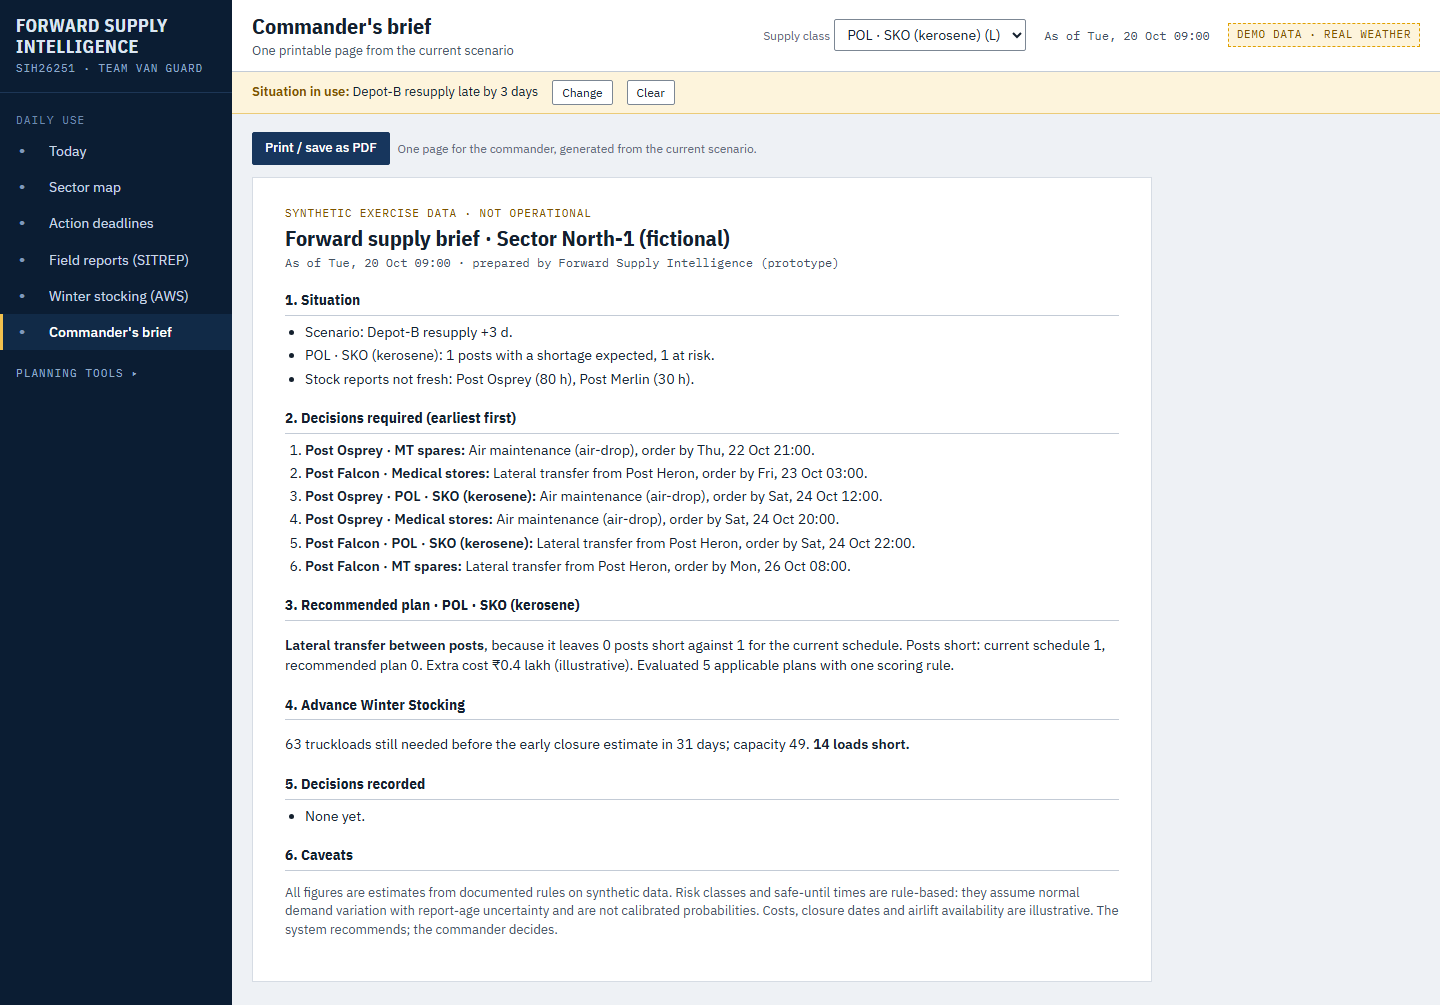
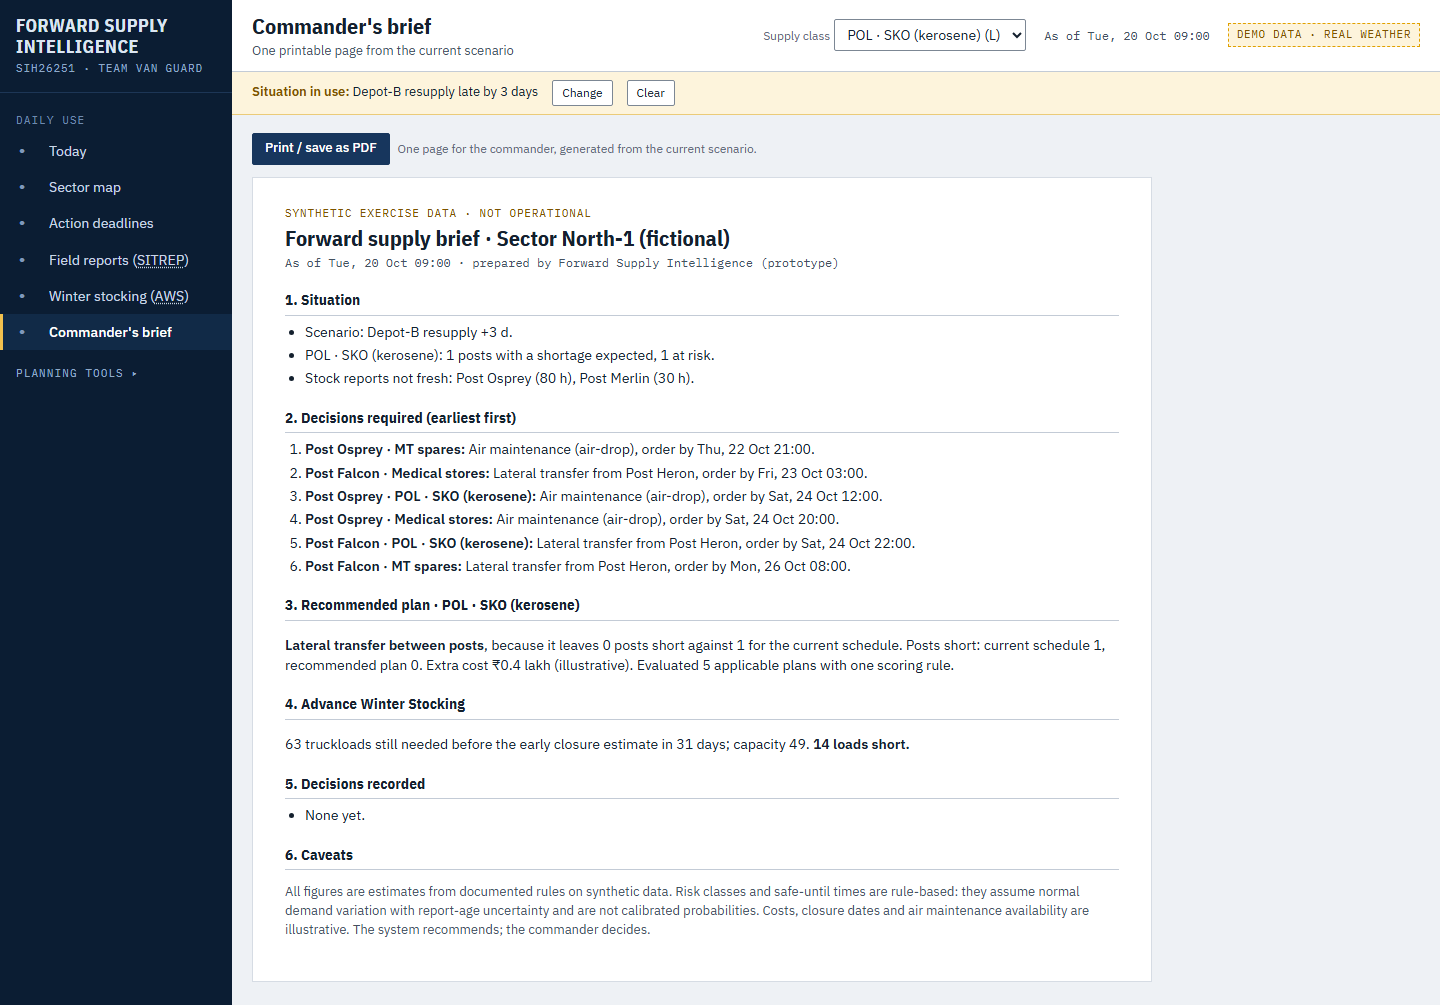
Mark DESIGN.md items done; day-number key on planning tools; retake screenshots
- DESIGN.md: CHANGE markers become DONE; tag and inline-style notes updated
- Planning tools say once what d6 / day N means (A2.12)
- Deadline timeline's first and last day labels stay inside the SVG
- README design-system notes; 11 screenshots retaken at 1440 px

diff --git a/web/js/views-sim.js b/web/js/views-sim.js
@@ -73,7 +73,7 @@
         <div class="callout row ${{ red: 'critical', amber: 'warning', green: 'healthy' }[cD]}">${sevTag(cD, lD)}<p><b>Estimated impact:</b> ${remD < 0 ? `${n.name} would run out of ${it.name.toLowerCase()} on ${ui.when(tD)}, ${fmt(A - tD, 1)} d before the delivery on ${ui.when(A)}. The gap is ${fmt(shortU)} ${it.unit}; covering it by air maintenance costs about <b>₹${fmt(cost, 1)} lakh</b> at ₹${CONFIG.airRate}/kg ${ui.srcTag('ILLUSTRATIVE')}.` : mD < 2 ? `No stock-out expected, but the margin shrinks from ${fmt(mN, 1)} d to ${fmt(mD, 1)} d.` : `Delay absorbed: stock lasts ${fmt(mD, 1)} d beyond delivery.`}</p></div>
         ${n.type === 'depot' ? '<p class="note">For a depot, a shortage here means dispatches fall behind. The Knock-on effects page shows which posts are hit.</p>' : ''}
         <div class="chart-wrap mt10"><svg class="fluid" id="wChart" viewBox="0 0 640 230" role="img" aria-label="Projected stock"></svg><div class="tip" id="wTip"></div></div>
-        <div class="legend"><span><i style="border-color:var(--navy-500)"></i>Normal</span><span><i style="border-color:var(--dis);border-top-style:dashed"></i>Disrupted</span><span><i class="box tint-critical"></i>shortage window</span><span>▼ delivery</span></div>`;
+        <div class="legend"><span><i style="border-color:var(--navy-500)"></i>Normal</span><span><i style="border-color:var(--dis);border-top-style:dashed"></i>Disrupted</span><span><i class="box tint-critical"></i>shortage window</span><span>▼ delivery</span><span>d2 = 2 days from now</span></div>`;
       chart({ s, c, c2, L, A, q: v2.q, F: 1 - st2.short / 100, tD, unit: it.unit });
     }
     function chart(o) {
@@ -109,7 +109,7 @@
         <div class="field"><label for="rS">Shortage in incoming delivery</label><div class="row"><input type="range" id="rS" data-fmt="plain" min="0" max="80" step="10" value="${st.short}"><output class="val">${st.short}%</output></div></div>
         <div><button type="button" class="btn" id="rReset">Reset disruption</button></div></div></div>
       <div class="grid m2">
-        <div class="panel"><div class="ph"><h2>Supply network</h2><span class="hint">Arrows = supply direction · dotted = lateral transfer allowed</span></div>
+        <div class="panel"><div class="ph"><h2>Supply network</h2><span class="hint">Arrows = supply direction · dotted = lateral transfer allowed · d6 = day 6 from now</span></div>
           <svg class="net" id="net" viewBox="0 0 900 470" role="img" aria-label="Supply network"></svg>
           <div class="legend" style="padding:8px 14px 10px">${badge('green')} no effect / buffer holds ${badge('amber')} delayed or thin ${badge('red')} shortage expected</div></div>
         <div class="panel"><div class="ph"><h2>Impact chain</h2></div><div class="pb">
@@ -196,7 +196,7 @@
           <div class="field"><label for="sP">Decision priority</label><select id="sP"><option value="balanced">Balanced (risk 60 · time 25 · cost 15)</option><option value="risk">Minimise shortage (80 · 15 · 5)</option><option value="cost">Minimise cost (40 · 20 · 40)</option></select></div>
           <div class="btn-row"><button type="button" class="btn primary" id="sSave">Save run to history</button><button type="button" class="btn" id="sReset">Reset scenario</button></div>
         </div></div>
-        <div class="panel"><div class="ph"><h2>Recommendation · ${it.name}</h2>${ui.srcTag('ESTIMATE')} ${ui.srcTag('ILLUSTRATIVE')}</div><div class="pb">
+        <div class="panel"><div class="ph"><h2>Recommendation · ${it.name}</h2><span class="hint">day N = days from now</span>${ui.srcTag('ESTIMATE')} ${ui.srcTag('ILLUSTRATIVE')}</div><div class="pb">
           <div class="reco"><h3>Recommended · best of ${ev.ranked.length} applicable plans · commander decides</h3><div class="big">${esc(best.name)}</div>
             <ul><li><b>Why:</b> ${esc(ev.reason)}.</li><li><b>Posts still short:</b> ${esc(shortTxt(best.m))}.</li>${best.key !== 'A' ? `<li><b>Cost:</b> ₹${fmt(best.m.cost, 1)} lakh extra (illustrative).</li>` : ''}${best.notes.length ? `<li><b>Note:</b> ${esc(best.notes.join('; '))}.</li>` : ''}</ul>
             ${FSI.whyPlanBox(st, ev)}</div>

diff --git a/web/index.html b/web/index.html
@@ -7,7 +7,7 @@
 <meta name="description" content="Decision-support prototype for forward logistics: act-by deadlines, disruption simulation and plan comparison. Synthetic data.">
 <link rel="preconnect" href="https://fonts.googleapis.com">
 <link href="https://fonts.googleapis.com/css2?family=IBM+Plex+Mono:wght@400;500;600&family=IBM+Plex+Sans+Condensed:wght@500;600;700&family=IBM+Plex+Sans:wght@400;500;600&display=swap" rel="stylesheet">
-<link rel="stylesheet" href="css/app.css?v=13">
+<link rel="stylesheet" href="css/app.css?v=15">
 </head>
 <body>
 <div class="shell">
@@ -45,17 +45,17 @@
     <div id="live" class="sr-only" role="status" aria-live="polite"></div>
   </div>
 </div>
-<script src="js/data.js?v=13"></script>
-<script src="js/weather-data.js?v=13"></script>
-<script src="js/weather.js?v=13"></script>
-<script src="js/engine.js?v=13"></script>
-<script src="js/ui.js?v=13"></script>
-<script src="js/explain.js?v=13"></script>
-<script src="js/views.js?v=13"></script>
-<script src="js/views-sim.js?v=13"></script>
-<script src="js/views-weather.js?v=13"></script>
-<script src="js/map.js?v=13"></script>
-<script src="js/today.js?v=13"></script>
-<script src="js/app.js?v=13"></script>
+<script src="js/data.js?v=15"></script>
+<script src="js/weather-data.js?v=15"></script>
+<script src="js/weather.js?v=15"></script>
+<script src="js/engine.js?v=15"></script>
+<script src="js/ui.js?v=15"></script>
+<script src="js/explain.js?v=15"></script>
+<script src="js/views.js?v=15"></script>
+<script src="js/views-sim.js?v=15"></script>
+<script src="js/views-weather.js?v=15"></script>
+<script src="js/map.js?v=15"></script>
+<script src="js/today.js?v=15"></script>
+<script src="js/app.js?v=15"></script>
 </body>
 </html>

diff --git a/web/js/views.js b/web/js/views.js
@@ -67,7 +67,7 @@
     s('rect', { x: x0, y: 30, width: x1 - x0, height: 14, fill: ui.tok('--navy-50'), stroke: ui.tok('--line') });
     for (let d = 0; d <= H; d++) {
       s('line', { x1: X(d), x2: X(d), y1: 44, y2: d % 7 === 0 ? 52 : 48, stroke: ui.tok('--chart-axis') });
-      if (d % 2 === 0) s('text', { x: X(d), y: 64, 'text-anchor': 'middle', 'font-size': 10, 'font-family': 'IBM Plex Mono', fill: ui.tok('--muted') }).textContent = d === 0 ? 'now' : ui.dayDate(d).toLocaleDateString('en-IN', { weekday: 'short', day: '2-digit' });
+      if (d % 2 === 0) s('text', { x: X(d), y: 64, 'text-anchor': d === 0 ? 'start' : d === H ? 'end' : 'middle', 'font-size': 10, 'font-family': 'IBM Plex Mono', fill: ui.tok('--muted') }).textContent = d === 0 ? 'now' : ui.dayDate(d).toLocaleDateString('en-IN', { weekday: 'short', day: '2-digit' });
     }
     // stock bar: green until safe stock-out, red after
     if (r.Yc > 0) s('rect', { x: x0, y: 30, width: X(r.Yc) - x0, height: 14, fill: ui.tok('--timeline-safe') });

diff --git a/DESIGN.md b/DESIGN.md
@@ -1,6 +1,6 @@
 # Forward Supply Intelligence — Design System
 
-Status: **specification v1 (20 Oct 2026)**. It documents the visual system already in `web/css/app.css` and the view code, and sets rules for future changes. Items marked **CHANGE** are proposals that have **not been implemented yet**.
+Status: **specification v1 (20 Oct 2026)**. It documents the visual system already in `web/css/app.css` and the view code, and sets rules for future changes. Items marked **DONE** were proposals in v1 and have been implemented (20 Oct 2026). Appendix A is the audit as it was found before those changes.
 
 Scope: the static web app in `web/` (vanilla JS, one stylesheet, no build step, no `package.json`). Tokens live as CSS custom properties in `web/css/app.css`. There is no second styling system, and none should be added.
 
@@ -50,7 +50,7 @@ Scope: the static web app in `web/` (vanilla JS, one stylesheet, no build step, 
 | `--navy-50` | `#F2F6FB` | recommendation panel tint |
 | `--ink` | `#14202E` | primary text (16.5:1 on white) |
 | `--ink-2` | `#44515F` | secondary text (8.1:1 on white) |
-| `--muted` | `#6B7887` | metadata, axis labels (**CHANGE**, see 2.3) |
+| `--muted` | `#5C6878` | metadata, axis labels (**DONE**, see 2.3; was `#6B7887`) |
 | `--line` | `#D6DCE4` | dividers inside panels |
 | `--line-2` | `#C3CBD6` | panel/table header rules |
 | `--bg` | `#EEF1F5` | workspace background |
@@ -59,7 +59,7 @@ Scope: the static web app in `web/` (vanilla JS, one stylesheet, no build step, 
 
 ### 2.2 Semantic tokens
 
-The semantic names below are the ones components should use. **CHANGE:** today components reference base names directly; add these aliases in `:root` and migrate gradually.
+The semantic names below are the ones components should use. **DONE:** today components reference base names directly; add these aliases in `:root` and migrate gradually.
 
 | Semantic token | Maps to | Meaning |
 |---|---|---|
@@ -90,7 +90,7 @@ The semantic names below are the ones components should use. **CHANGE:** today c
 - **Green = healthy or verified positive:** OK, accepted report, real-data tag. A good outcome ("✓ better") uses green ink, not fill.
 - **Blue = information and planned items:** plan ahead, rule-based tags, selection. Blue is also the action colour, so status-blue always appears **with a label**.
 - **Status is never colour alone.** Every status carries an icon glyph (✕ ! i ✓ –) **and** a word (ACT NOW, OK, …).
-- **CHANGE (contrast):**
+- **DONE (contrast):**
   - `--muted #6B7887` measures 3.98:1 on `--bg` and 4.23:1 on `--panel-2`, below AA for the 10–12 px text it is used for. Change it to **`#5C6878`** (5.0:1 on `--bg`, 5.3:1 on `--panel-2`).
   - Form-control borders `#C3CBD6` are 1.64:1 on white, below the 3:1 needed for non-text elements. Use `--border-control #7C8794`.
   - White ✓ on `--status-healthy` fill is 3.44:1. Use `--status-healthy-ink` as the icon background in badges.
@@ -111,7 +111,7 @@ Fonts load from Google Fonts. Offline, the system fallbacks apply; layouts must 
 
 ### 3.2 Scale
 
-The current CSS uses **22 sizes (9–46 px)**. **CHANGE:** collapse them to this scale.
+The current CSS uses **22 sizes (9–46 px)**. **DONE:** collapse them to this scale.
 
 | Token | Size / line-height | Weight | Use |
 |---|---|---|---|
@@ -136,7 +136,7 @@ The current CSS uses **22 sizes (9–46 px)**. **CHANGE:** collapse them to this
   - On daily-use pages, show an absolute date plus a relative time: `Thu 22 Oct 14:00 (in 2 d 18 h)`.
   - On planning tools, `day N` (days from now) is allowed, but the column or axis says so once.
   - Deadlines round **down** to the hour.
-- **All caps** only in status badges, tags and the sidebar group labels. **CHANGE:** panel titles (`.ph h3`) and the uppercase table headers move to sentence case at `--fs-h3` / `--fs-tag`. This cuts the current eight uppercase rules to three.
+- **All caps** only in status badges, tags and the sidebar group labels. **DONE:** panel titles (`.ph h3`) and the uppercase table headers move to sentence case at `--fs-h3` / `--fs-tag`. This cuts the current eight uppercase rules to three.
 
 ---
 
@@ -153,8 +153,8 @@ The current CSS uses **22 sizes (9–46 px)**. **CHANGE:** collapse them to this
   - Every grid collapses to one column at ≤ 1080 px.
 - **Radius:** 0 for panels, cards, tables and the map; 2 px for buttons, inputs and chips; 3 px for map label boxes; 50% only for status dots.
 - **Borders:** 1 px `--border-subtle` or `--border-strong`. Emphasis uses a **3 px top edge** on metric tiles or a **4 px inset left edge** on list rows, never both.
-  - **CHANGE:** the 6 px left border on Today's big counts becomes 4 px, to match the deadline rows.
-  - **CHANGE:** the `.tile` 3 px top border and `.card` top borders keep only for comparison cards.
+  - **DONE:** the 6 px left border on Today's big counts becomes 4 px, to match the deadline rows.
+  - **DONE:** the `.tile` 3 px top border and `.card` top borders keep only for comparison cards.
 - **Elevation:** none. Flat panels with borders. Shadows only on the open mobile sidebar.
 
 ---
@@ -172,20 +172,20 @@ Each component lists the existing class to keep and the rules that standardise i
   - `blue` = PLAN AHEAD, RULE-BASED
   - `green` = OK, ACCEPTED, REAL PUBLIC
   - `grey` = NOT APPLICABLE, NOT BUILT
-- **Words are meanings, not colours.** **CHANGE:** Knock-on effects shows `RED / AMBER / GREEN` as the badge text; replace with `SHORTAGE / AT RISK / OK`.
-- **One severity vocabulary.** **CHANGE:**
+- **Words are meanings, not colours.** **DONE:** Knock-on effects shows `RED / AMBER / GREEN` as the badge text; replace with `SHORTAGE / AT RISK / OK`.
+- **One severity vocabulary.** **DONE:**
   - What-if uses `LOW / WATCH / HIGH / CRITICAL` while the risk class uses `LOW / MEDIUM / HIGH`. These are two different "LOW/HIGH" scales on adjacent pages.
   - Proposed: margin severity uses the deadline words (`OK / ACT SOON / SHORTAGE`); the rule-based risk class keeps `LOW / MEDIUM / HIGH`, always followed by "(rule-based)".
 
 ### 5.2 Source and estimate tags — `.est`, `.fact`, `.tag-used`, `.tag-plan`
 
-Four classes do one job. **CHANGE:** merge them into one `.tag` with tones `estimate` (amber), `real` (green), `rule` (blue) and `planned` (grey/blue), at 11 px.
+Four classes do one job. **DONE:** merge them into one `.tag` with tones `estimate` (amber), `real` (green), `rule` (blue) and `planned` (grey/blue), at 11 px.
 
-Approved words: `ESTIMATE`, `SIMULATED`, `ILLUSTRATIVE`, `ASSUMED`, `REAL PUBLIC`, `RULE-BASED`, `PLANNED`, `SNAPSHOT`, `AVERAGE`. Don't stack more than two tags on one element.
+Approved words: `ESTIMATE`, `SIMULATED`, `ILLUSTRATIVE`, `ASSUMED`, `REAL PUBLIC`, `RULE-BASED`, `PLANNED`, `SNAPSHOT`, `AVERAGE`. Don't stack more than two tags on one element. Render tags with `ui.srcTag(word)`; the tone follows the word. In the references list only `PLANNED` is tagged; untagged references are used in the prototype.
 
 ### 5.3 Metric summary
 
-There are four patterns today: `.tile`, `.big`, `.big-num`, and `.reco .big`. **CHANGE:** one `.metric` component.
+There are four patterns today: `.tile`, `.big`, `.big-num`, and `.reco .big`. **DONE:** one `.metric` component.
 - Label (`--fs-tag`, sentence case)
 - Value (`--fs-metric`, cond, tabular)
 - Optional unit or "/ total" in `--fs-small`
@@ -202,9 +202,9 @@ Today's counts are `.metric--status`. The Winter top row reuses the same compone
 
 ### 5.5 Data table — `table.t`
 
-- **Header:** mono 11 px (CHANGE from uppercase 10.5) on `--surface-inset`.
+- **Header:** mono 11 px (DONE: was uppercase 10.5) on `--surface-inset`.
 - **Rows:** 7 × 8 padding with `--border-subtle` dividers. Numeric columns use `.n`. The selected or recommended row uses the `--navy-100` background **plus** a tag (`RECOMMENDED`).
-- **CHANGE:** `.optt` (options inside disclosures) becomes `table.t.compact` (5 × 6 padding), not a separate style.
+- **DONE:** `.optt` (options inside disclosures) becomes `table.t.compact` (5 × 6 padding), not a separate style.
 - **Comparison tables:** "better" cells keep the `✓ better` suffix (green ink), so the comparison is never colour-only.
 - **Width:** wide tables sit inside `.scroll`. Never shrink the font to fit.
 
@@ -216,7 +216,7 @@ Today's counts are `.metric--status`. The Winter top row reuses the same compone
   - **Secondary:** white with a `--border-control` border.
   - **Text-link** buttons only for navigation ("All deadlines →").
 - **Destructive or reset actions** (Reset demo, Clear history) are secondary, never red. Red is status, not action.
-- **CHANGE:** links styled as buttons (`a.btn`) need the same height and colour as `button.btn`; three local overrides set `color:var(--ink)` today.
+- **DONE:** links styled as buttons (`a.btn`) need the same height and colour as `button.btn`; three local overrides set `color:var(--ink)` today.
 
 ### 5.7 Form controls — `.field`
 
@@ -229,7 +229,7 @@ Today's counts are `.metric--status`. The Winter top row reuses the same compone
 
 ### 5.8 Callout / alert
 
-There are six variants today: `.urgent`, `.limit`, `.verdict`, `.banner`, `.parse`, `.acard`. **CHANGE:** one `.callout` with tones `critical | warning | healthy | info`.
+There are six variants today: `.urgent`, `.limit`, `.verdict`, `.banner`, `.parse`, `.acard`. **DONE:** one `.callout` with tones `critical | warning | healthy | info`.
 
 **Structure:**
 - status badge
@@ -265,14 +265,14 @@ Only one recommendation panel per page. Don't call a plan "optimal": the method 
 ### 5.11 Timelines
 
 - **Deadline timeline (SVG):** stock bar (healthy tint until "safe until"), red line at the safe-until point, ▼ for scheduled delivery, lettered circles (T C D A) for the latest order time of each option, hatched red for "no option arrives in time". Day ticks with weekday labels.
-- **Step timeline:** `.flow` (numbered, impact chain) and `.tl-steps` (demo, left-edge state) are two patterns for one idea. **CHANGE:** use `.steps` with a numbered marker and states `done | current | pending`.
+- **Step timeline:** `.flow` (numbered, impact chain) and `.tl-steps` (demo, left-edge state) are two patterns for one idea. **DONE:** use `.steps` with a numbered marker and states `done | current | pending`.
 
 ### 5.12 Expandable explanation — `details.why`
 
 - **Summary text:** always "Why this recommendation?" for recommendations, and "How is this worked out?" for page-level method notes.
 - **Body (`.why-b`):** facts as a `dl.kv2` list, then the options table, then **Why:** and **Remaining risk:** sentences.
 - Bodies show engine values only; nothing is typed in by hand.
-- **CHANGE:** the "All options" disclosure in deadline rows and `details.howto` need the same summary style (navy-500, weight 500, ▸/▾ marker).
+- **DONE:** the "All options" disclosure in deadline rows and `details.howto` need the same summary style (navy-500, weight 500, ▸/▾ marker).
 
 ### 5.13 Dialogs and notifications
 
@@ -300,7 +300,7 @@ None exist yet. If added:
 - **Tooltips:** `.tip`, navy-900 with white mono 11.5 px, follows a crosshair. Every chart that has a tooltip also shows its key numbers elsewhere on the page in text, so the tooltip is never the only way to read them.
 - **Legends:** below the chart, `.legend`, with the same swatch shapes as the marks.
 - **Sources:** real-data charts (weather history) say "Real ERA5 data" in the panel head. Synthetic charts carry an `ESTIMATE` / `SIMULATED` tag.
-- **CHANGE:** there are 145 hex literals in JS-built SVG. Read colours from CSS tokens with one helper, e.g. `ui.tok('--status-critical')` via `getComputedStyle`, so charts and maps follow the token table.
+- **DONE:** there are 145 hex literals in JS-built SVG. Read colours from CSS tokens with one helper, e.g. `ui.tok('--status-critical')` via `getComputedStyle`, so charts and maps follow the token table.
 
 ---
 
@@ -323,7 +323,7 @@ None exist yet. If added:
 | Route-2 (light vehicles) | 2 px dashed `#7F97B5` |
 | Porter / animal track | 2 px dotted `#7C8794` |
 | Closed segment | red dashed |
-| Snow in forecast (3 days) | ❄ glyph next to the post (**CHANGE:** use an SVG icon, since the glyph depends on the font) |
+| Snow in forecast (3 days) | ❄ glyph next to the post (**DONE:** use an SVG icon, since the glyph depends on the font) |
 
 **Network diagram (Knock-on effects):**
 - Nodes are 180 × 56 boxes with a status-coloured fill tint and border, plus a 5 px status edge.
@@ -372,7 +372,7 @@ None exist yet. If added:
 
 Use "best of the evaluated plans", never "optimal". Use "recommended", never "decided".
 
-**Terminology** (one name everywhere; **CHANGE** where code or Methods text still differs):
+**Terminology** (one name everywhere; **DONE** where code or Methods text still differs):
 
 | Use | Not |
 |---|---|
@@ -404,11 +404,11 @@ Use "best of the evaluated plans", never "optimal". Use "recommended", never "de
   - Don't remove outlines without a replacement (`.node:focus` currently does; it relies on the stroke change, which is acceptable).
 - **Semantics:**
   - One `h1` per page (top bar).
-  - Panel titles are `h3`. **CHANGE:** add `h2` for the main page section, or demote the panel titles consistently.
+  - Panel titles are `h3`. **DONE:** add `h2` for the main page section, or demote the panel titles consistently.
   - Tables have `th` headers; tabs use `role=tablist/tab` with `aria-selected`.
   - Disclosures use native `details/summary`.
-- **Announcements:** content that changes after an action (Approve, Accept report, demo steps) goes in an `aria-live="polite"` region. **CHANGE:** the demo timeline and the Approve confirmation are not announced today.
-- **Motion:** only the demo's 0.9 s step reveal. Respect `prefers-reduced-motion` by showing all steps at once. **CHANGE**.
+- **Announcements:** content that changes after an action (Approve, Accept report, demo steps) goes in an `aria-live="polite"` region. **DONE:** the demo timeline and the Approve confirmation are not announced today.
+- **Motion:** only the demo's 0.9 s step reveal. Respect `prefers-reduced-motion` by showing all steps at once. **DONE**.
 - **Target size:** at least 24 × 24 px for every control. `.btn.sm` (26 px) meets this; table action buttons must not go smaller.
 - **Language:** `lang="en"` is set. Abbreviations (SKO, POL, AWS, SITREP, MT) are expanded once per page or in a tooltip.
 
@@ -439,7 +439,7 @@ Use "best of the evaluated plans", never "optimal". Use "recommended", never "de
 - Percentages labelled "probability" or "confidence" for rule-based outputs; the word "optimal".
 - A new component that duplicates an existing one (a second badge, a seventh callout style).
 - Hard-coded hex in new code. Use tokens (and `ui.tok()` once it exists).
-- Inline `style="…"` for anything reusable. There are 116 inline styles in view templates today; don't add more, and move repeats into classes.
+- Inline `style="…"` for anything reusable. Repeated inline styles have been moved into classes (116 → 43, mostly one-off widths); don't add more.
 - Text under 11 px; fixed-height boxes that clip text.
 - Sizing SVG label boxes from character counts of one specific font without slack. `map.js` does this, so a font change or the offline fallback can overflow labels.
 - Hiding the synthetic-data badge, the Open-Meteo attribution, or the map's "fictional" footer.

diff --git a/web/README.md b/web/README.md
@@ -34,6 +34,8 @@ The UI follows `DESIGN.md` at the repository root. In short:
 - **Status badges** (`ui.tag`, `ui.statusTag`) always pair an icon with a meaning word: ACT NOW, ACT SOON, PLAN AHEAD, OK, TOO LATE, SHORTAGE, AT RISK. The rule-based risk class is LOW / MEDIUM / HIGH, labelled "(rule-based)".
 - **Source tags** (`ui.srcTag(word)`, class `.tag`) say what kind of number something is, using only ESTIMATE, SIMULATED, ILLUSTRATIVE, ASSUMED, AVERAGE, REAL PUBLIC, RULE-BASED, PLANNED, SNAPSHOT.
 - **Components:** one `.callout` (critical / warning / healthy / info) and one `.metric` (`.metric--status` for Today's counts) replace the earlier one-off styles.
+- **Also shared:** `table.t.compact` for option tables, one disclosure style, one `.steps` timeline (done / current / pending), and `a.btn` matching `button.btn`.
+- **Accessibility:** panel titles are `h2`; Approve, report results and demo steps are announced through a polite live region (`ui.announce`); the demo shows every step at once when the system asks for reduced motion.
 - Screenshots of all 11 pages (1440 px wide) are in `submission/screenshots/`.
 
 ## Honest limits
